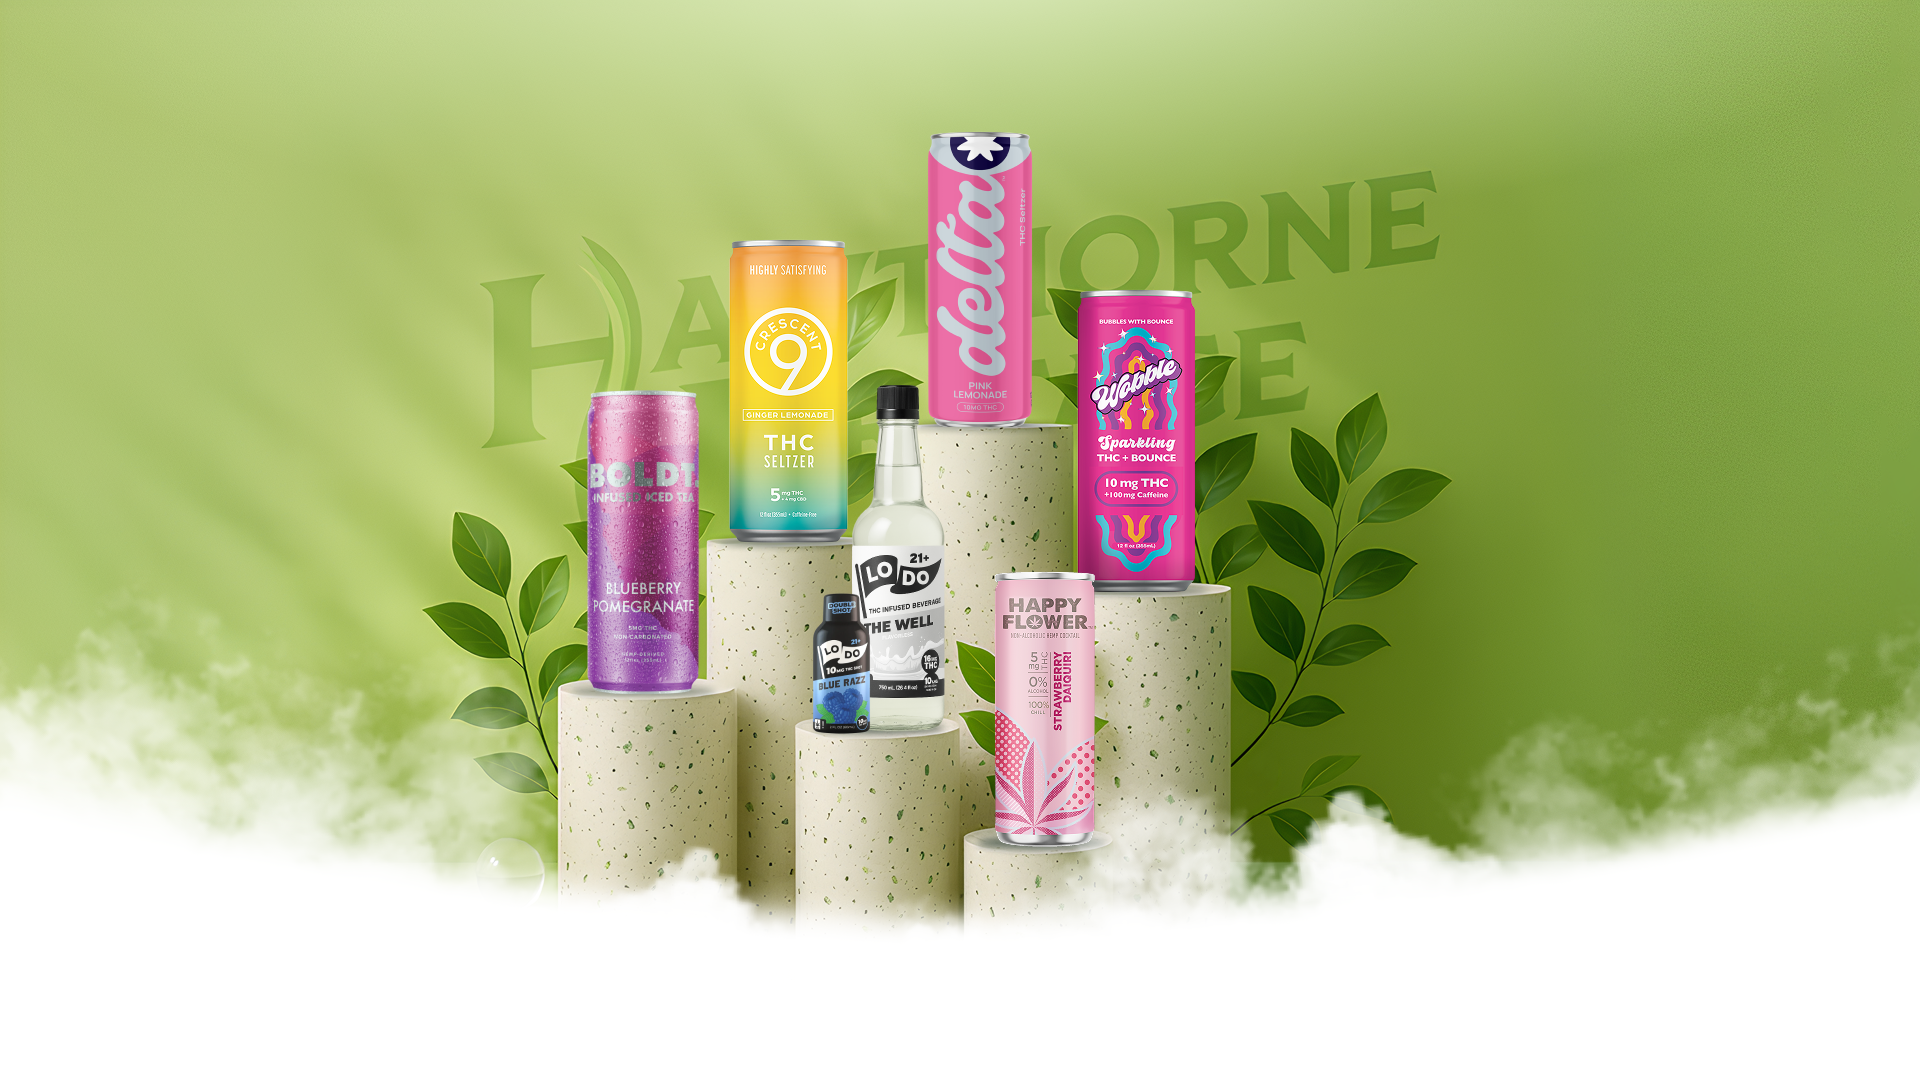
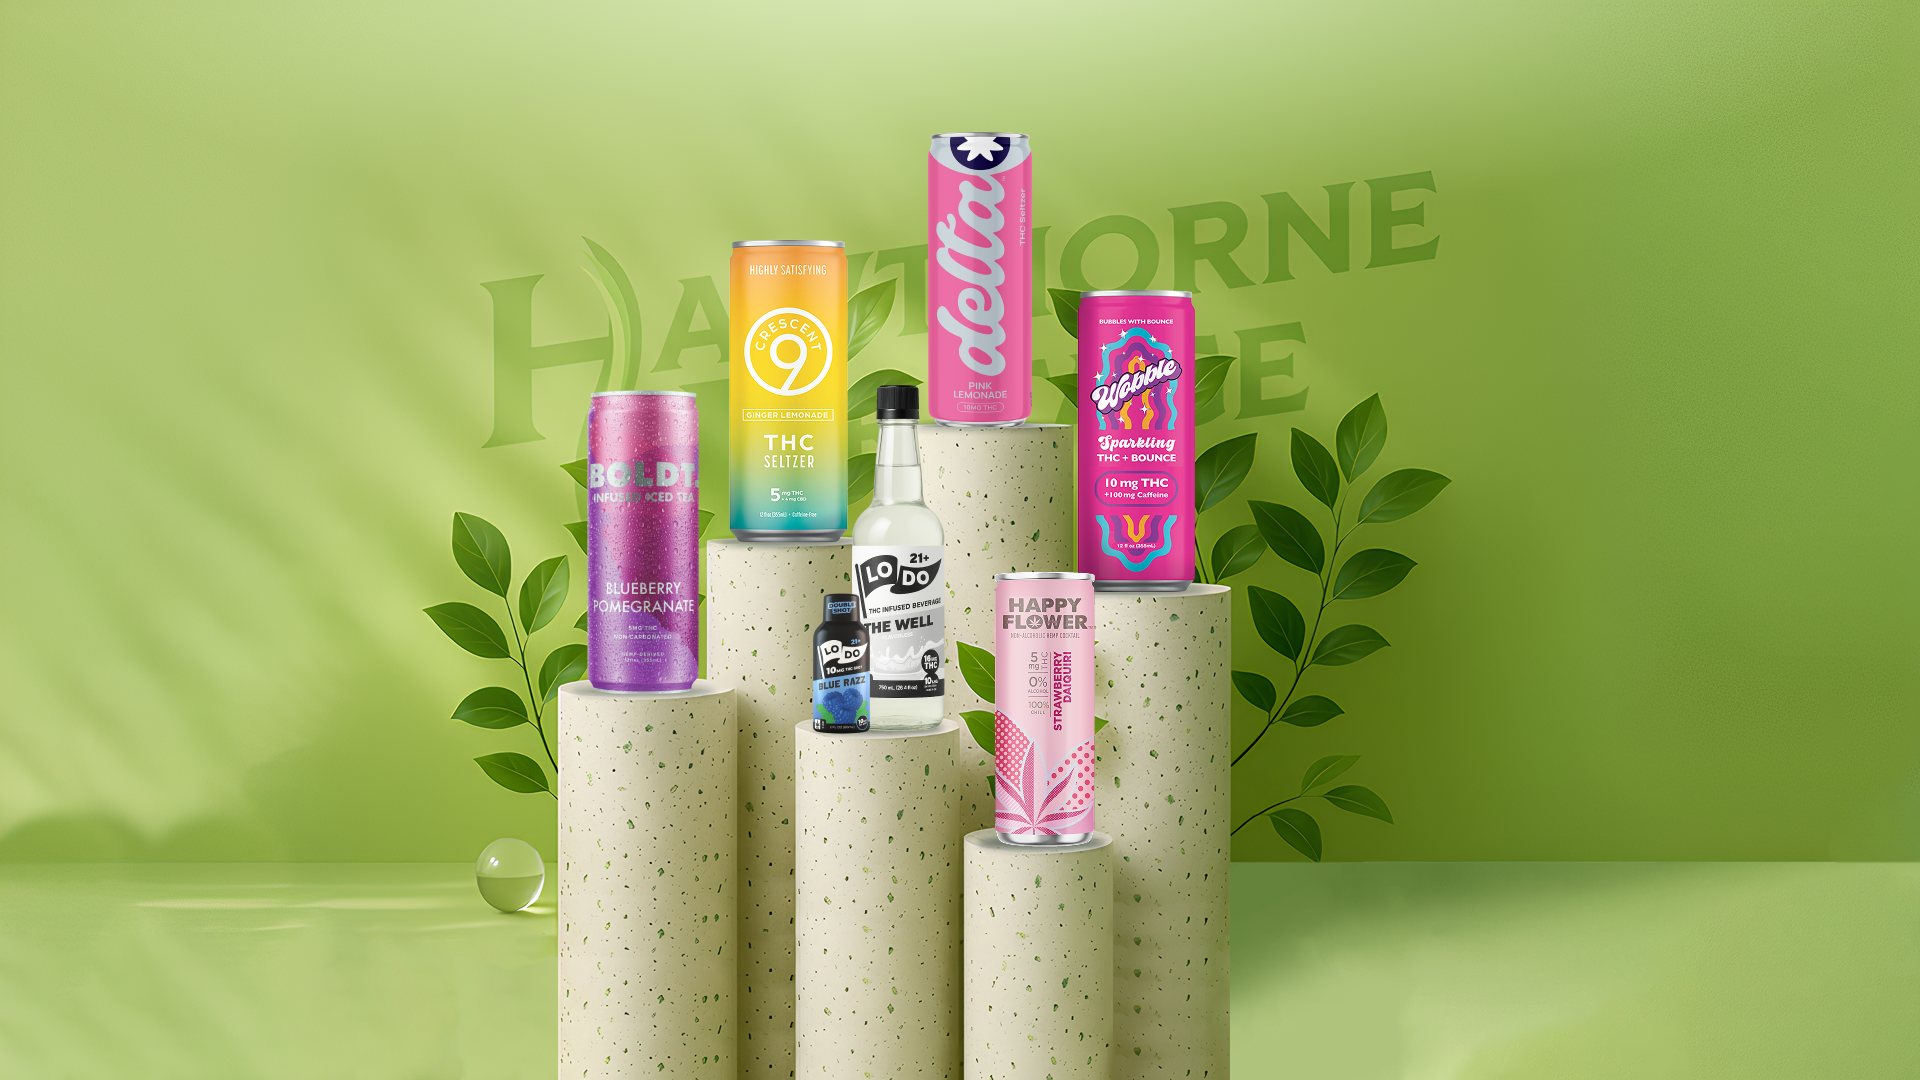
bruh when will this end

Changed region(s): [[0.0, 0.5806, 1.0, 1.0]]

diff --git a/index.html b/index.html
@@ -20,6 +20,23 @@
       position: relative;
       color: #fff;
     }
+    /* the Clouds */
+.cloud-container {
+  position: fixed;
+  bottom: 0;
+  left: 0;
+  width: 100%;
+  height: 50vh; /* cloud height relative to viewport */
+  overflow: hidden;
+  z-index: 2;
+}
+
+.cloud-overlay {
+  width: 100%;
+  height: 100%;
+  object-fit: cover; /* fills the container while keeping bottom anchored */
+  pointer-events: none;
+}
 
     /* Slider background container */
     .bg-slider {
@@ -266,6 +283,9 @@
 }
 
     @media (max-width: 768px) {
+      .cloud-container{
+        height: 80%;
+      }
       .top-bar { padding: 10px 20px; }
       .logo img { width: 50%; }
       .text-content{
@@ -280,12 +300,15 @@
       .text-content p { font-size: 0.8rem; }
       .next-btn { font-size: 0.9rem; align-self: flex-end; margin-bottom: 5px;  height: 0px;}
       .bg-slider{
-        height: 100vh;
+        height: 80vh;
       }
     }
     @media (max-width: 400px){
+      .cloud-container{
+        height: 100%;
+      }
         .bg-slide{
-          height: 120vh;
+          height: 80vh;
         }
         .text-content p{
           width: 100%;
@@ -302,6 +325,10 @@
   </style>
 </head>
 <body>
+  <div class="cloud-container">
+  <img src="vapor.png" class="cloud-overlay">
+</div>
+
   <!-- Background Slider -->
   <div class="bg-slider">
     <div class="bg-slide" style="background-image: url('Landing Page. Banner_1.png');"></div>
@@ -359,7 +386,9 @@
 
     // Background arrays
     const desktopBackgrounds = ['Landing Page. Banner_1.png','Landing Page. Banner_2.png'];
-    const mobileBackgrounds = ['Mobile_Landing Page. Banner2.png','Mobile_Landing Page. Banner.png'];
+    const mobileBackgrounds = ['mobile banner.png','mobile banner 2.png'];
+    const tabletBackgrounds  = ['NEW 768PX.png','NEWW 768PX.png'];
+
     let backgrounds = window.innerWidth <= 400 ? mobileBackgrounds : desktopBackgrounds;
 
     // Track slide
@@ -368,13 +397,22 @@
     let isAnimating = false;
 
     function updateBackgrounds() {
-      backgrounds = window.innerWidth <= 400 ? mobileBackgrounds : desktopBackgrounds;
-      slides[0].style.backgroundImage = `url('${backgrounds[0]}')`;
-      slides[1].style.backgroundImage = `url('${backgrounds[1]}')`;
-      currentIndex = 0;
-      slides[0].style.transform = 'translateX(0)';
-      slides[1].style.transform = 'translateX(100%)';
-    }
+  if (window.innerWidth <= 400) {
+    backgrounds = mobileBackgrounds;
+  } else if (window.innerWidth <= 768) {
+    backgrounds = tabletBackgrounds;
+  } else {
+    backgrounds = desktopBackgrounds;
+  }
+
+  slides[0].style.backgroundImage = `url('${backgrounds[0]}')`;
+  slides[1].style.backgroundImage = `url('${backgrounds[1]}')`;
+
+  currentIndex = 0;
+  slides[0].style.transform = 'translateX(0)';
+  slides[1].style.transform = 'translateX(100%)';
+}
+
 
     window.addEventListener('resize', updateBackgrounds);
 
